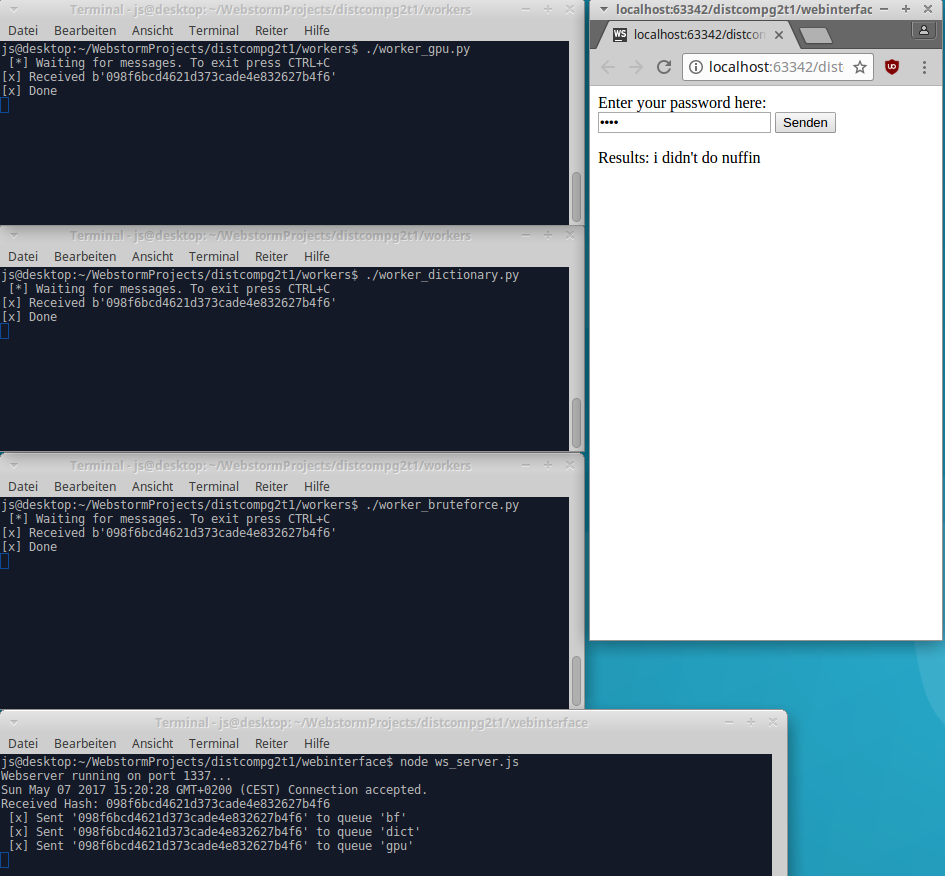
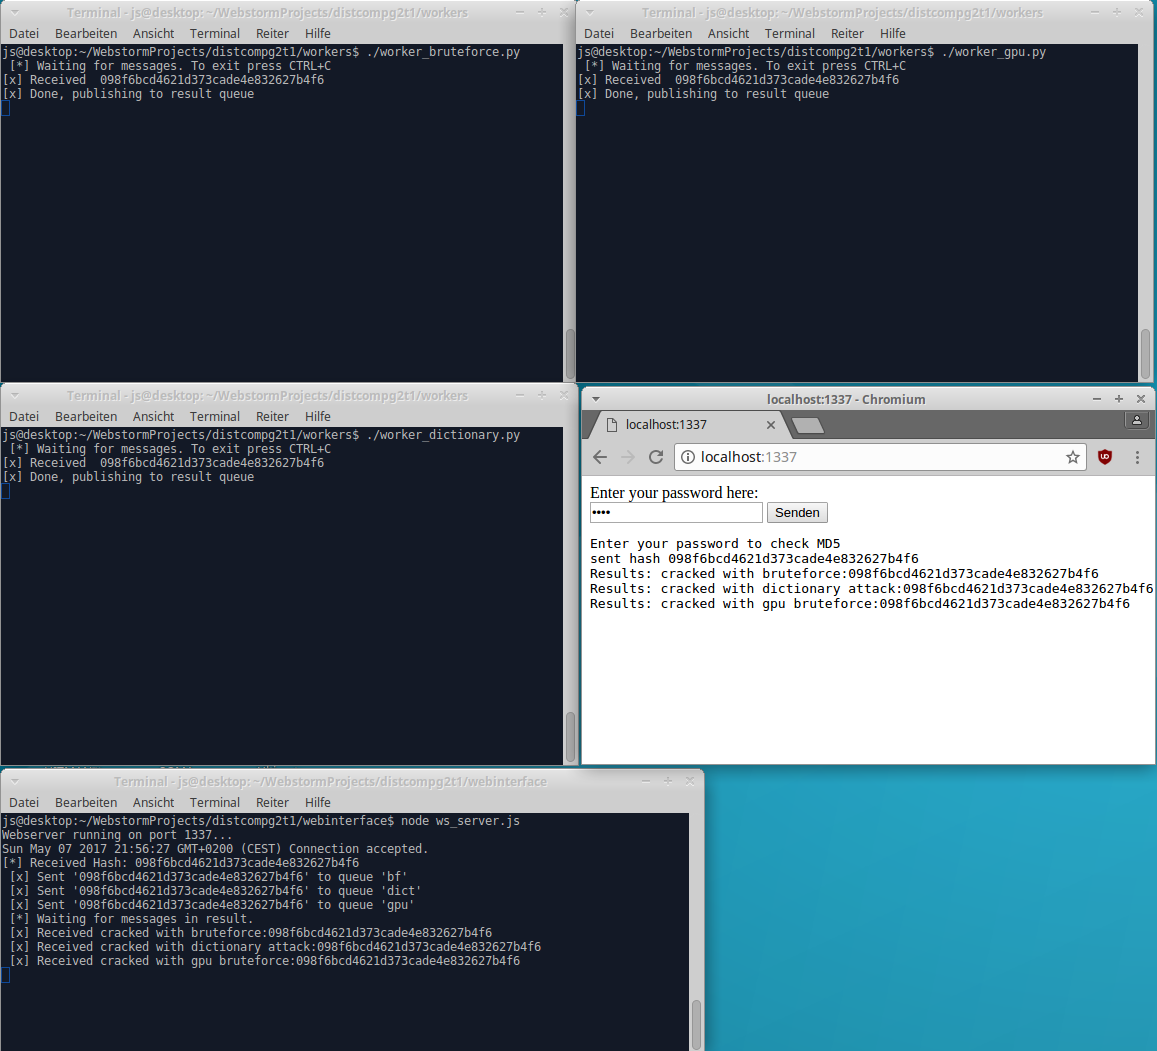
implemented result handling

diff --git a/webinterface/ws_client.html b/webinterface/ws_client.html
@@ -195,6 +195,7 @@
 
         function send() {
             var hash = md5(document.getElementById("password").value);
+            var status = document.getElementById("status");
 
             if ("WebSocket" in window) {
                 // Let us open a web socket
@@ -202,20 +203,20 @@
                 ws.onopen = function () {
                     // Web Socket is connected, send data using send()
                     ws.send(hash);
-                    document.getElementById("status").innerHTML = "sent hash " + hash;
+                    status.innerHTML += "\nsent hash " + hash;
                 };
                 ws.onmessage = function (evt) {
                     var received_msg = evt.data;
-                    document.getElementById("status").innerHTML = "Results: " + received_msg;
+                    status.innerHTML += "\nResults: " + received_msg;
                 };
                 ws.onclose = function () {
                     // websocket is closed.
-                    alert("Connection is closed...");
+                    status.innerHTML += "\nConnection is closed...";
                 };
             }
             else {
                 // The browser doesn't support WebSocket
-                alert("WebSocket NOT supported by your Browser!");
+                status.innerHTML = "WebSocket NOT supported by your Browser!";
             }
         }
     </script>
@@ -226,5 +227,5 @@
     <input type="password" id="password" name="password"/>
     <input type="submit" onclick="send()"/>
 </form>
-<p id="status">Enter your password</p>
+<pre id="status">Enter your password to check MD5</pre>
 </body>

diff --git a/webinterface/ws_server.js b/webinterface/ws_server.js
@@ -38,7 +38,7 @@ wsServer.on('request', function (request) {
     connection.on('message', function (message) {
         if (message.type === 'utf8') {
             var msg = message.utf8Data;
-            console.log('Received Hash: ' + msg);
+            console.log('[*] Received Hash: ' + msg);
 
             // Dispatch to workers
             var amqp = require('amqplib/callback_api');
@@ -54,8 +54,23 @@ wsServer.on('request', function (request) {
             });
             // end dispatching code
 
-            // todo: handle result messages
-            connection.sendUTF("i didn't do nuffin");
+            // start result handling
+            amqp.connect('amqp://localhost', function(err, conn) {
+                conn.createChannel(function(err, ch) {
+                    var q = 'result';
+
+                    ch.assertQueue(q, {durable: true});
+                    console.log(" [*] Waiting for messages in %s.", q);
+                    ch.consume(q, function(msg) {
+                        var s = msg.content.toString();
+                        console.log(" [x] Received %s", s);
+                        connection.sendUTF(s);
+                    }, {noAck: true});
+                });
+            });
+
+            // todo: kill other workers when MD5 collision is found
+            // end result handling
         }
     });
     connection.on('close', function (reasonCode, description) {

diff --git a/workers/worker_dictionary.py b/workers/worker_dictionary.py
@@ -9,11 +9,22 @@ channel.queue_declare(queue='dict', durable=True)
 
 
 def callback(ch, method, properties, body):
-    print ("[x] Received {}".format(body))
+    hash = body.decode("utf-8")
+    print ("[x] Received ", hash)
     ch.basic_ack(delivery_tag = method.delivery_tag)
+
     # simulate cpu intensive task
     time.sleep( 1)
-    print("[x] Done")
+
+    # publish to queue result
+    print("[x] Done, publishing to result queue")
+    channel.queue_declare(queue='result', durable=True)
+    channel.basic_publish(exchange='',
+                          routing_key="result",
+                          body="cracked with dictionary attack:" + hash,
+                          properties=pika.BasicProperties(
+                             delivery_mode = 2, # make message persistent
+                          ))
 
 channel.basic_consume(callback, queue='dict')
 

diff --git a/workers/worker_gpu.py b/workers/worker_gpu.py
@@ -9,11 +9,22 @@ channel.queue_declare(queue='gpu', durable=True)
 
 
 def callback(ch, method, properties, body):
-    print ("[x] Received {}".format(body))
+    hash = body.decode("utf-8")
+    print ("[x] Received ", hash)
     ch.basic_ack(delivery_tag = method.delivery_tag)
+
     # simulate cpu intensive task
     time.sleep( 1)
-    print("[x] Done")
+
+    # publish to queue result
+    print("[x] Done, publishing to result queue")
+    channel.queue_declare(queue='result', durable=True)
+    channel.basic_publish(exchange='',
+                          routing_key="result",
+                          body="cracked with gpu bruteforce:" + hash,
+                          properties=pika.BasicProperties(
+                             delivery_mode = 2, # make message persistent
+                          ))
 
 channel.basic_consume(callback, queue='gpu')
 

diff --git a/workers/worker_bruteforce.py b/workers/worker_bruteforce.py
@@ -9,11 +9,22 @@ channel.queue_declare(queue='bf', durable=True)
 
 
 def callback(ch, method, properties, body):
-    print ("[x] Received {}".format(body))
+    hash = body.decode("utf-8")
+    print ("[x] Received ", hash)
     ch.basic_ack(delivery_tag = method.delivery_tag)
+
     # simulate cpu intensive task
     time.sleep( 1)
-    print("[x] Done")
+
+    # publish to queue result
+    print("[x] Done, publishing to result queue")
+    channel.queue_declare(queue='result', durable=True)
+    channel.basic_publish(exchange='',
+                          routing_key="result",
+                          body="cracked with bruteforce:" + hash,
+                          properties=pika.BasicProperties(
+                             delivery_mode = 2, # make message persistent
+                          ))
 
 channel.basic_consume(callback, queue='bf')
 

diff --git a/README.md b/README.md
@@ -11,6 +11,13 @@ rabbitmq-plugins enable rabbitmq_management
 pip3 install pika
 
 
+### Setup OpenCL
+sudo apt-get install ocl-icd-libopencl1 opencl-headers clinfo
+
+### Download and install hashcat under /usr/local/share/hashcat
+https://hashcat.net
+
+
 ## Usage
 ### start message queue service
 rabbitmqctl start
